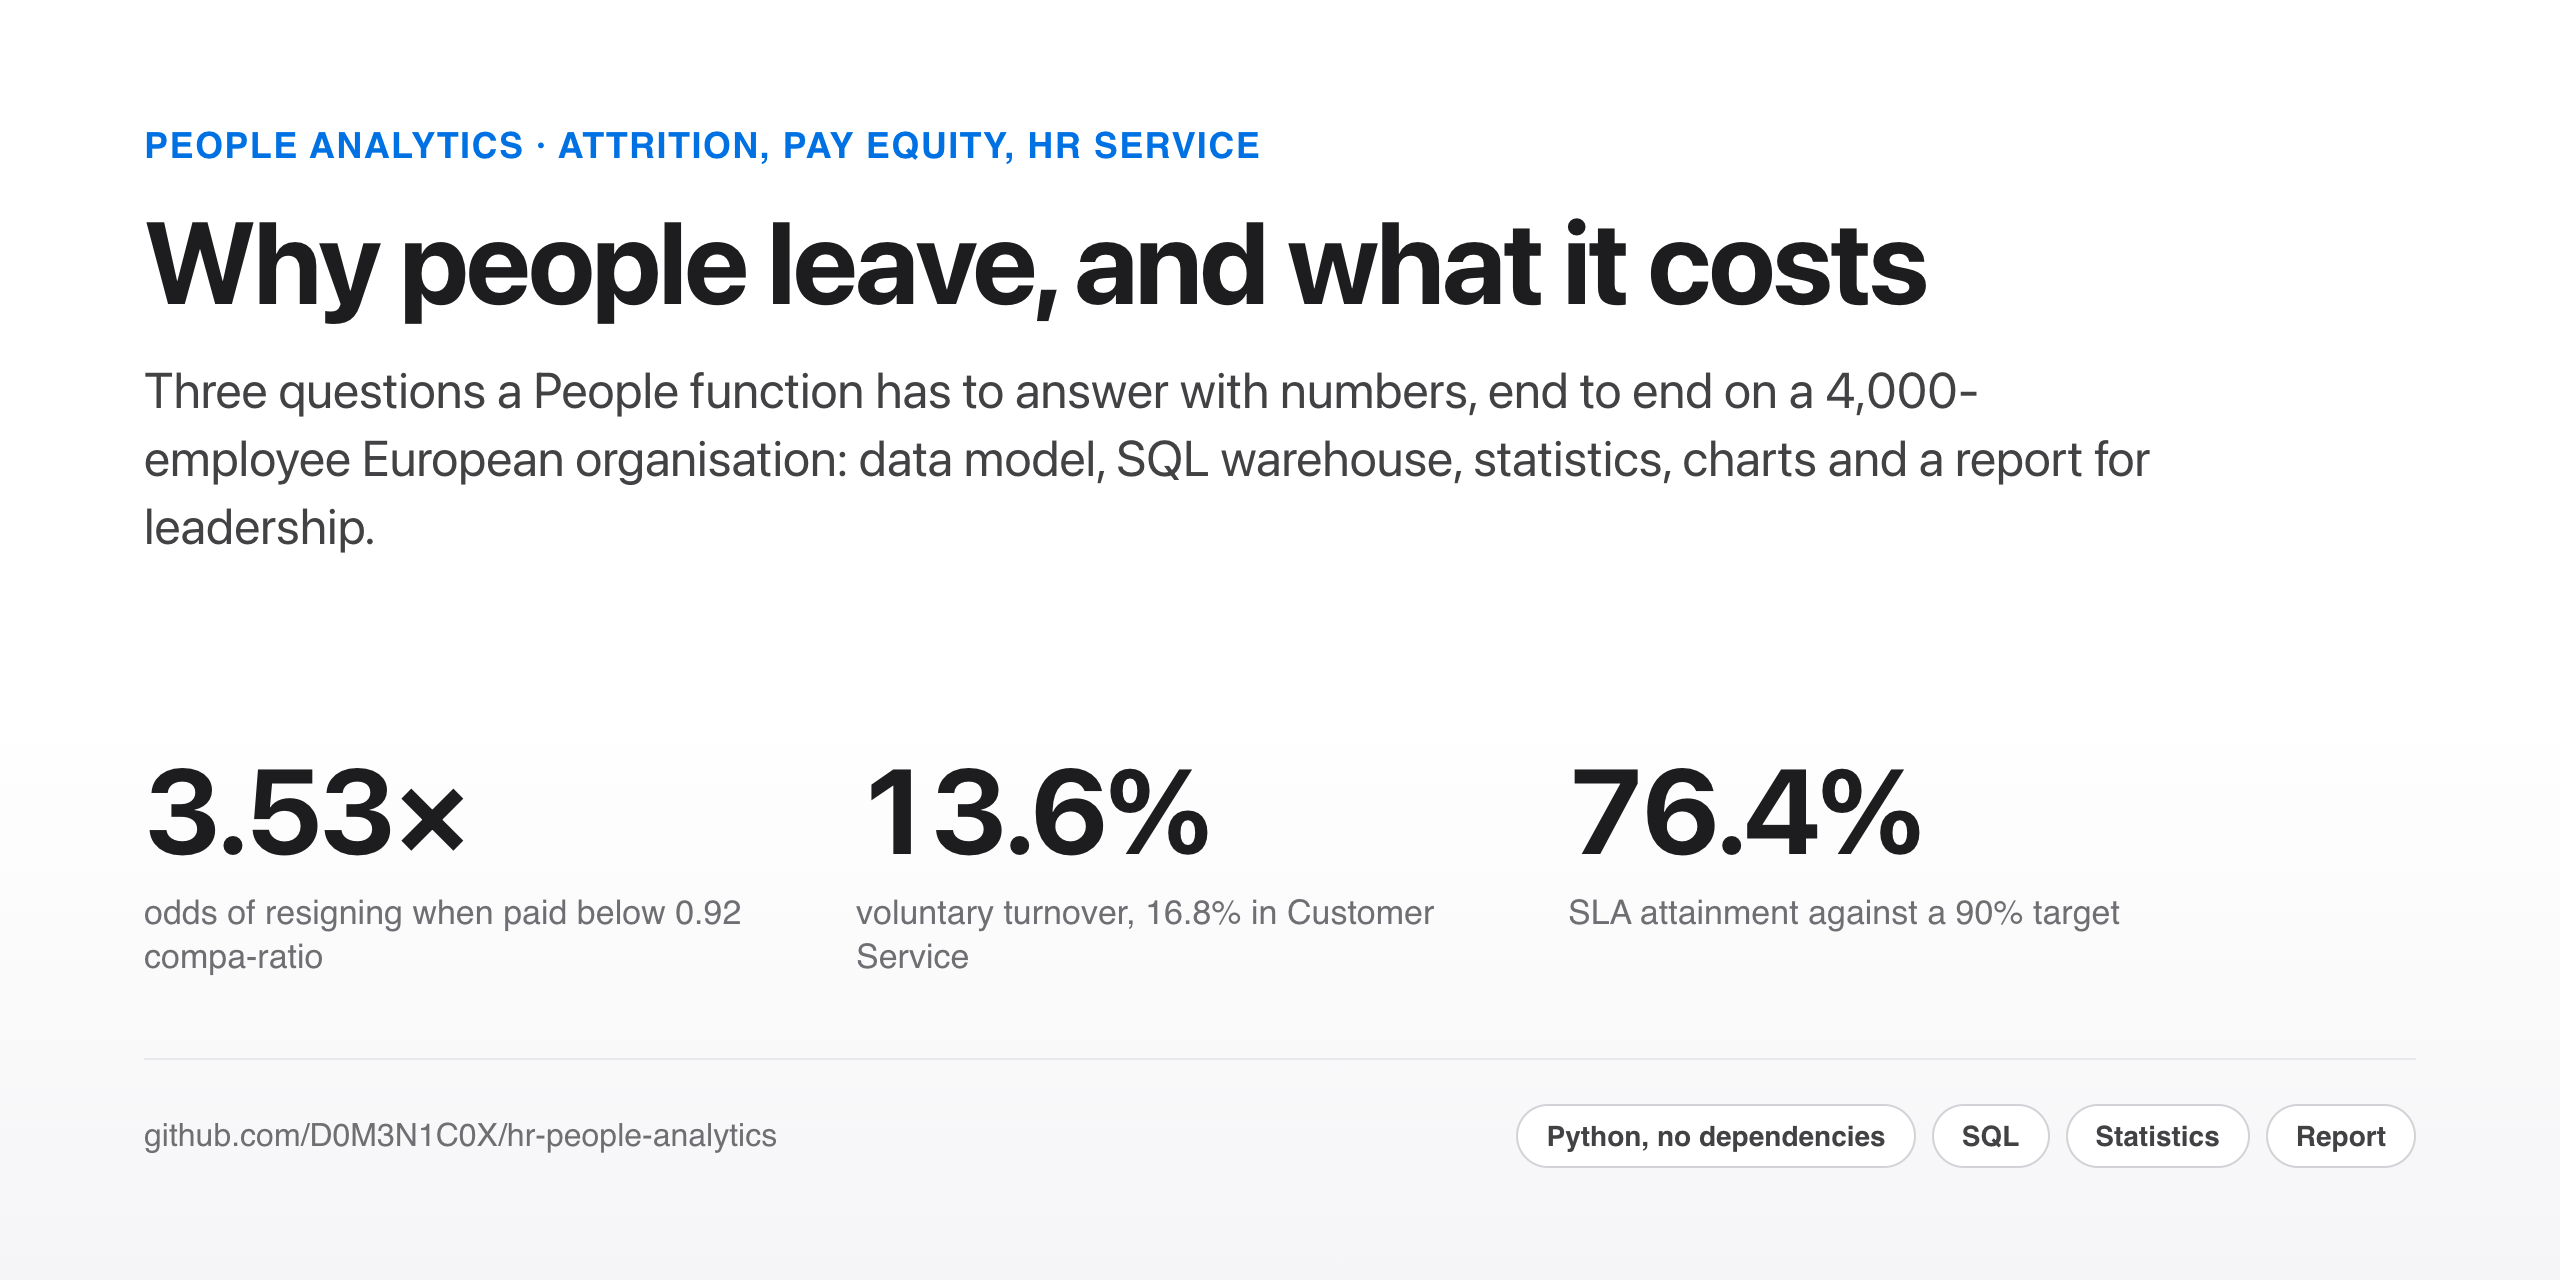
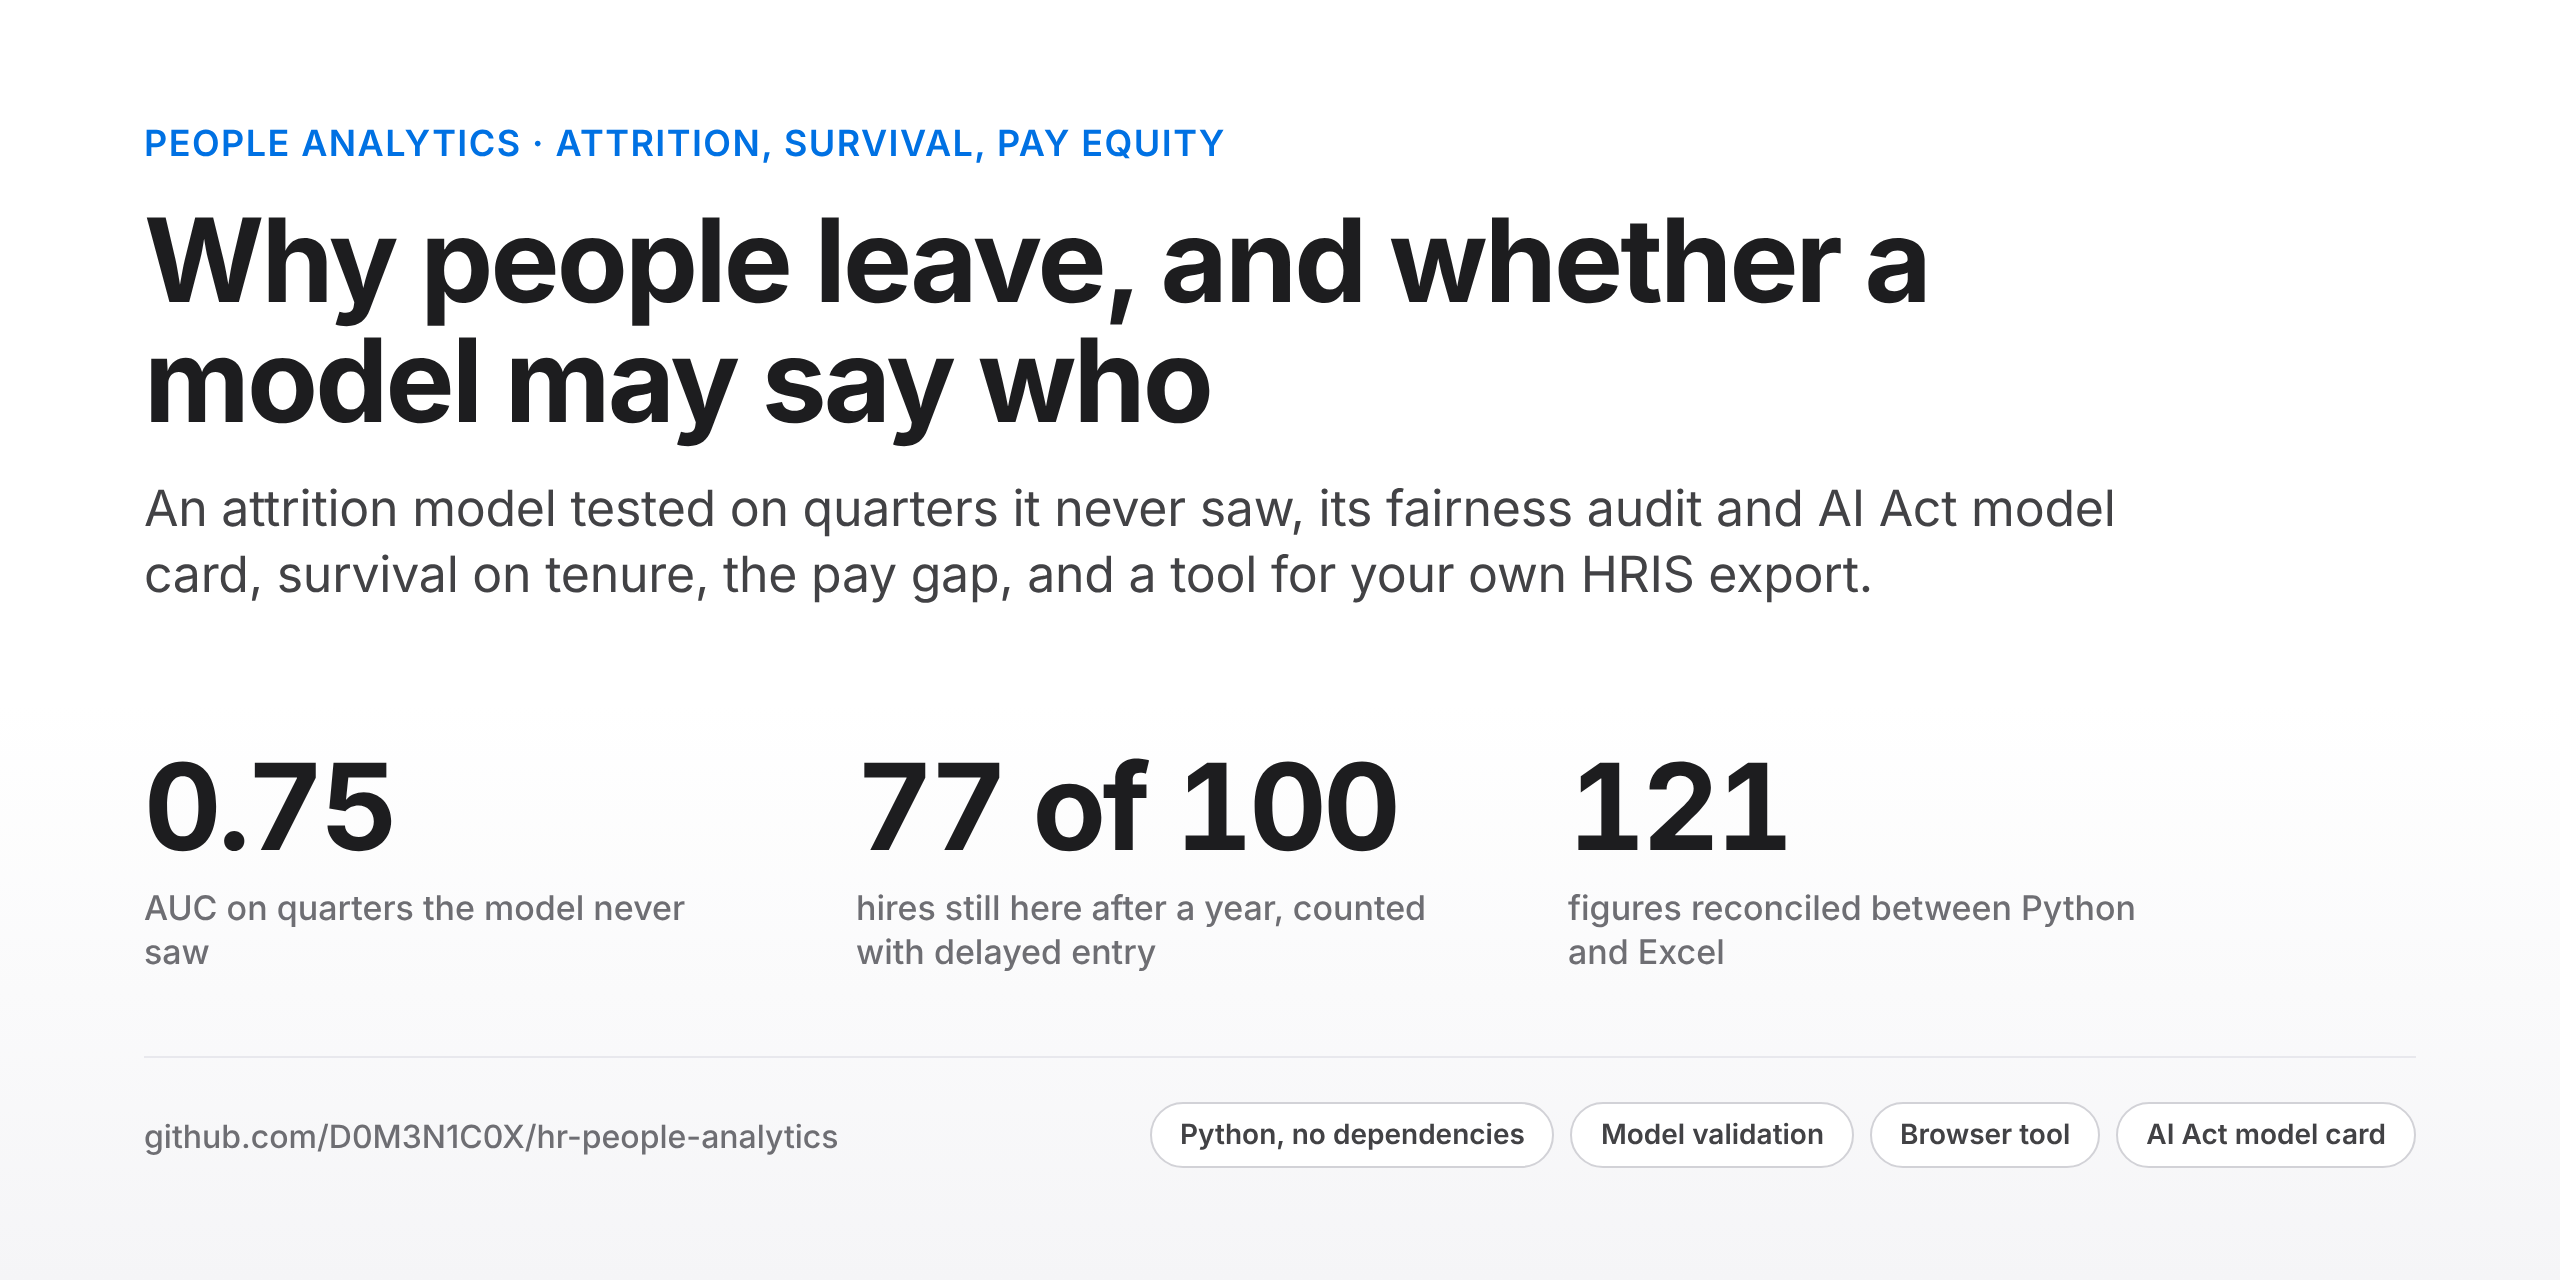
Report: the answers first, a page that fits a phone, the new cover
findings.md now opens with four lines that answer the report's questions,
each figure computed by the modules (turnover, survival, the out-of-time AUC
and capture, the raw and like-for-like pay gap, SLA), and links to the tool,
the model card, the workbook and the code.

The published page overflowed a phone (546 px wide at 390): the charts' minimum
width stretched the grid. The grid column is now minmax(0, 1fr), so a wide chart
scrolls inside its plate. The cover and link preview lead with the validated
model, survival and the reconciled workbook.

Claude-Session: https://claude.ai/code/session_014XHqeApKr46St4VSU6sEYL

diff --git a/reports/findings.html b/reports/findings.html
@@ -28,8 +28,8 @@ body{
   font-size:17px; line-height:1.68; -webkit-font-smoothing:antialiased;
 }
 .page{padding:clamp(1.25rem,4vw,3.5rem) clamp(1rem,4vw,2rem) 5rem}
-.doc{display:grid; gap:1.5rem; justify-items:center}
-.doc > *{width:100%; max-width:42rem; margin:0}
+.doc{display:grid; grid-template-columns:minmax(0,1fr); gap:1.5rem; justify-items:center}
+.doc > *{width:100%; max-width:42rem; margin:0; min-width:0}   /* wide charts scroll in their plate, not the page */
 .doc > figure, .doc > .table-wrap{max-width:57rem}
 
 h1,h2,h3{font-family:-apple-system,BlinkMacSystemFont,"SF Pro Display","Inter","Segoe UI",Roboto,"Helvetica Neue",Arial,sans-serif; text-wrap:balance; margin:0}
@@ -116,6 +116,12 @@ footer.colophon{
 </head><body><div class="page"><article class="doc"><header class="masthead"><p class="eyebrow">Workforce report &middot; 12 months to 30 June 2026</p><h1>People Analytics &ndash; findings</h1>
 <dl class="meta"><dt>Reporting period</dt><dd>01 July 2025 to 30 June 2026</dd><dt>Population</dt><dd>a synthetic European shared-services organisation across Italy, Poland, Germany and Spain</dd><dt>Generated by</dt><dd><code>python3 src/run_all.py</code> &ndash; every number and chart below is reproduced from the code in this repository</dd></dl></header>
 <div class="notice">The data is synthetic and generated with a fixed seed (<code>src/generate_data.py</code>). No real employee data is used anywhere in this project. The analytical methods, the metric definitions and the recommendations are the parts meant to be judged.</div>
+<h2><span>In one minute</span></h2>
+<p>- <strong>Who leaves.</strong> Voluntary turnover is <strong>13.6%</strong>, Customer Service the highest at <strong>16.8%</strong>; of a hundred hires, <strong>77</strong> are still here after a year. Pay below band is the strongest warning sign.
+- <strong>Can it be predicted?</strong> Tested on quarters it never saw, the attrition model reaches an AUC of <strong>0.75</strong> and its top 10% of scores catches <strong>38%</strong> of the next quarter's resignations; most people it flags stay, so it may guide conversations and nothing else.
+- <strong>Is pay fair?</strong> The mean gender pay gap is <strong>15.4%</strong>, <strong>1.6%</strong> like for like: most of it is who holds the senior jobs.
+- <strong>Does HR service work?</strong> <strong>76.4%</strong> of cases meet their SLA against a 90% target, and it breaks at the January peak.</p>
+<p><a href="https://d0m3n1c0x.github.io/hr-people-analytics/tool/">Try it on your own file</a> · <a href="https://github.com/D0M3N1C0X/hr-people-analytics/blob/main/docs/model_card.md">Model card</a> · <a href="https://github.com/D0M3N1C0X/hr-people-analytics/blob/main/deliverables/people_analytics.xlsx">The workbook</a> · <a href="https://github.com/D0M3N1C0X/hr-people-analytics">The code</a></p>
 <h2><span class="num">01</span><span>Attrition &amp; retention</span></h2>
 <p><strong>Headline.</strong> Average headcount over the window is <strong>3,364</strong>. Voluntary turnover is <strong>13.6%</strong> (457 exits); total turnover, including dismissals and end-of-contract, is <strong>16.6%</strong>. <strong>110</strong> voluntary leavers &ndash; <strong>24%</strong> of them &ndash; held a performance rating of 4 or 5, so a quarter of the loss sits in the population you least want to lose.</p>
 <p><strong>Where it is concentrated.</strong> Customer Service runs at <strong>16.8%</strong>, <strong>+3.3 pp</strong> against the company average. It carries 30% of the workforce but produces <strong>36%</strong> of all voluntary exits.</p>

diff --git a/site-assets/og-meta.html b/site-assets/og-meta.html
@@ -1,7 +1,7 @@
-<meta name="description" content="Why people leave, whether pay is defensible under the EU Pay Transparency Directive, and whether the HR service desk works, on a synthetic 4,000-employee organisation.">
+<meta name="description" content="Why people leave and whether a model may say who: an attrition model tested on quarters it never saw, its fairness audit and AI Act model card, survival on tenure, the pay gap, on a synthetic 4,000-employee organisation.">
 <meta property="og:type" content="website">
-<meta property="og:title" content="People Analytics: attrition, pay equity and HR service delivery">
-<meta property="og:description" content="Why people leave, whether pay is defensible under the EU Pay Transparency Directive, and whether the HR service desk works, on a synthetic 4,000-employee organisation.">
+<meta property="og:title" content="People Analytics: why people leave, and whether a model may say who">
+<meta property="og:description" content="Why people leave and whether a model may say who: an attrition model tested on quarters it never saw, its fairness audit and AI Act model card, survival on tenure, the pay gap, on a synthetic 4,000-employee organisation.">
 <meta property="og:url" content="https://d0m3n1c0x.github.io/hr-people-analytics/">
 <meta property="og:image" content="https://d0m3n1c0x.github.io/hr-people-analytics/og.png">
 <meta property="og:image:width" content="1280">

diff --git a/src/run_all.py b/src/run_all.py
@@ -32,6 +32,43 @@ import generate_data
 from hrlib import ROOT, SNAPSHOT, WINDOW_START
 
 REPORT = ROOT / "reports" / "findings.md"
+SITE = "https://d0m3n1c0x.github.io/hr-people-analytics"
+REPO = "https://github.com/D0M3N1C0X/hr-people-analytics"
+
+
+def summary() -> str:
+    """The answers first: one line per question, every figure computed by the modules below."""
+    from hrlib import group_by, load_cases, load_employees, turnover_rate
+
+    employees = load_employees()
+    rates = {d: turnover_rate(rows) for d, rows in group_by(employees, "department").items()}
+    worst = max(rates, key=rates.get)
+    pooled = analysis_validation.evaluate()["pooled"]["model"]
+    active = [e for e in employees if e["active"]]
+    adjusted = analysis_pay_gap.nested_models(active)[-1][1]
+    cases = load_cases()
+    sla = sum(c["sla_met"] for c in cases) / len(cases)
+    lines = [
+        "## In one minute",
+        "",
+        f"- **Who leaves.** Voluntary turnover is **{turnover_rate(employees):.1f}%**, {worst} the highest at "
+        f"**{rates[worst]:.1f}%**; of a hundred hires, **{100 * analysis_survival.first_year():.0f}** are still here after a "
+        "year. Pay below band is the strongest warning sign.",
+        f"- **Can it be predicted?** Tested on quarters it never saw, the attrition model reaches an AUC of "
+        f"**{pooled['auc']:.2f}** and its top 10% of scores catches **{pooled['top10']:.0%}** of the next quarter's "
+        "resignations; most people it flags stay, so it may guide conversations and nothing else.",
+        f"- **Is pay fair?** The mean gender pay gap is **{analysis_pay_gap.raw_gap(active):.1f}%**, "
+        f"**{adjusted:.1f}%** like for like: most of it is who holds the senior jobs.",
+        f"- **Does HR service work?** **{sla:.1%}** of cases meet their SLA against a 90% target, and it breaks at "
+        "the January peak.",
+        "",
+        f"[Try it on your own file]({SITE}/tool/) · [Model card]({REPO}/blob/main/docs/model_card.md) · "
+        f"[The workbook]({REPO}/blob/main/deliverables/people_analytics.xlsx) · [The code]({REPO})",
+        "",
+        "---",
+        "",
+    ]
+    return "\n".join(lines)
 
 HEADER = f"""# People Analytics - findings
 
@@ -127,7 +164,7 @@ def main() -> None:
     print("\n4/4  writing the report")
     REPORT.parent.mkdir(parents=True, exist_ok=True)
     body = "\n\n".join(section.rstrip() + "\n" for section in sections)
-    REPORT.write_text(HEADER + body + FOOTER, encoding="utf-8")
+    REPORT.write_text(HEADER + summary() + body + FOOTER, encoding="utf-8")
 
     figures = sorted((ROOT / "reports" / "figures").glob("*.svg"))
     print(f"     reports/findings.md  ({REPORT.stat().st_size / 1024:.0f} KB)")

diff --git a/src/build_report_html.py b/src/build_report_html.py
@@ -2,7 +2,7 @@
 Render reports/findings.md as a single self-contained HTML report.
 
 The Markdown report is the source of truth; this turns it into something a
-reader can open in a browser, with all 13 charts inlined as SVG so the file
+reader can open in a browser, with every chart inlined as SVG so the file
 travels on its own - no image folder, no network, no build step.
 
     python3 src/build_report_html.py                     -> reports/findings.html
@@ -55,8 +55,8 @@ body{
   font-size:17px; line-height:1.68; -webkit-font-smoothing:antialiased;
 }
 .page{padding:clamp(1.25rem,4vw,3.5rem) clamp(1rem,4vw,2rem) 5rem}
-.doc{display:grid; gap:1.5rem; justify-items:center}
-.doc > *{width:100%; max-width:42rem; margin:0}
+.doc{display:grid; grid-template-columns:minmax(0,1fr); gap:1.5rem; justify-items:center}
+.doc > *{width:100%; max-width:42rem; margin:0; min-width:0}   /* wide charts scroll in their plate, not the page */
 .doc > figure, .doc > .table-wrap{max-width:57rem}
 
 h1,h2,h3{font-family:-apple-system,BlinkMacSystemFont,"SF Pro Display","Inter","Segoe UI",Roboto,"Helvetica Neue",Arial,sans-serif; text-wrap:balance; margin:0}

diff --git a/src/analysis_survival.py b/src/analysis_survival.py
@@ -62,6 +62,13 @@ def split_at(subjects, X, at: float):
     return s2, x2
 
 
+def first_year() -> float:
+    """Share of hires still employed after twelve months (voluntary exits, delayed entry): the report's headline."""
+    employees = load_employees()
+    eligible = [e for e in employees if months(e["hire_dt"], e["exit_dt"] or SNAPSHOT) > max(0.0, months(e["hire_dt"], WINDOW_START))]
+    return survival_at(kaplan_meier(subjects_of(eligible)), 12)
+
+
 def run() -> str:
     employees = load_employees()
     eligible = [e for e in employees if months(e["hire_dt"], e["exit_dt"] or SNAPSHOT) > max(0.0, months(e["hire_dt"], WINDOW_START))]

diff --git a/reports/findings.md b/reports/findings.md
@@ -12,6 +12,16 @@ from the code in this repository
 
 ---
 
+## In one minute
+
+- **Who leaves.** Voluntary turnover is **13.6%**, Customer Service the highest at **16.8%**; of a hundred hires, **77** are still here after a year. Pay below band is the strongest warning sign.
+- **Can it be predicted?** Tested on quarters it never saw, the attrition model reaches an AUC of **0.75** and its top 10% of scores catches **38%** of the next quarter's resignations; most people it flags stay, so it may guide conversations and nothing else.
+- **Is pay fair?** The mean gender pay gap is **15.4%**, **1.6%** like for like: most of it is who holds the senior jobs.
+- **Does HR service work?** **76.4%** of cases meet their SLA against a 90% target, and it breaks at the January peak.
+
+[Try it on your own file](https://d0m3n1c0x.github.io/hr-people-analytics/tool/) · [Model card](https://github.com/D0M3N1C0X/hr-people-analytics/blob/main/docs/model_card.md) · [The workbook](https://github.com/D0M3N1C0X/hr-people-analytics/blob/main/deliverables/people_analytics.xlsx) · [The code](https://github.com/D0M3N1C0X/hr-people-analytics)
+
+---
 ## 1. Attrition & retention
 
 **Headline.** Average headcount over the window is **3,364**. Voluntary turnover is **13.6%** (457 exits); total turnover, including dismissals and end-of-contract, is **16.6%**. **110** voluntary leavers - **24%** of them - held a performance rating of 4 or 5, so a quarter of the loss sits in the population you least want to lose.

diff --git a/README.md b/README.md
@@ -1,6 +1,6 @@
 <picture>
   <source media="(prefers-color-scheme: dark)" srcset="site-assets/cover-dark.png">
-  <img alt="Why people leave, and what it costs: 3.53 times the odds of resigning below 0.92 compa-ratio, 13.6% voluntary turnover, 76.4% SLA attainment against a 90% target." src="site-assets/cover-light.png">
+  <img alt="Why people leave, and whether a model may say who: AUC 0.75 on quarters the model never saw, 77 of 100 hires still here after a year, 121 figures reconciled between Python and Excel." src="site-assets/cover-light.png">
 </picture>
 
 <p align="center">
